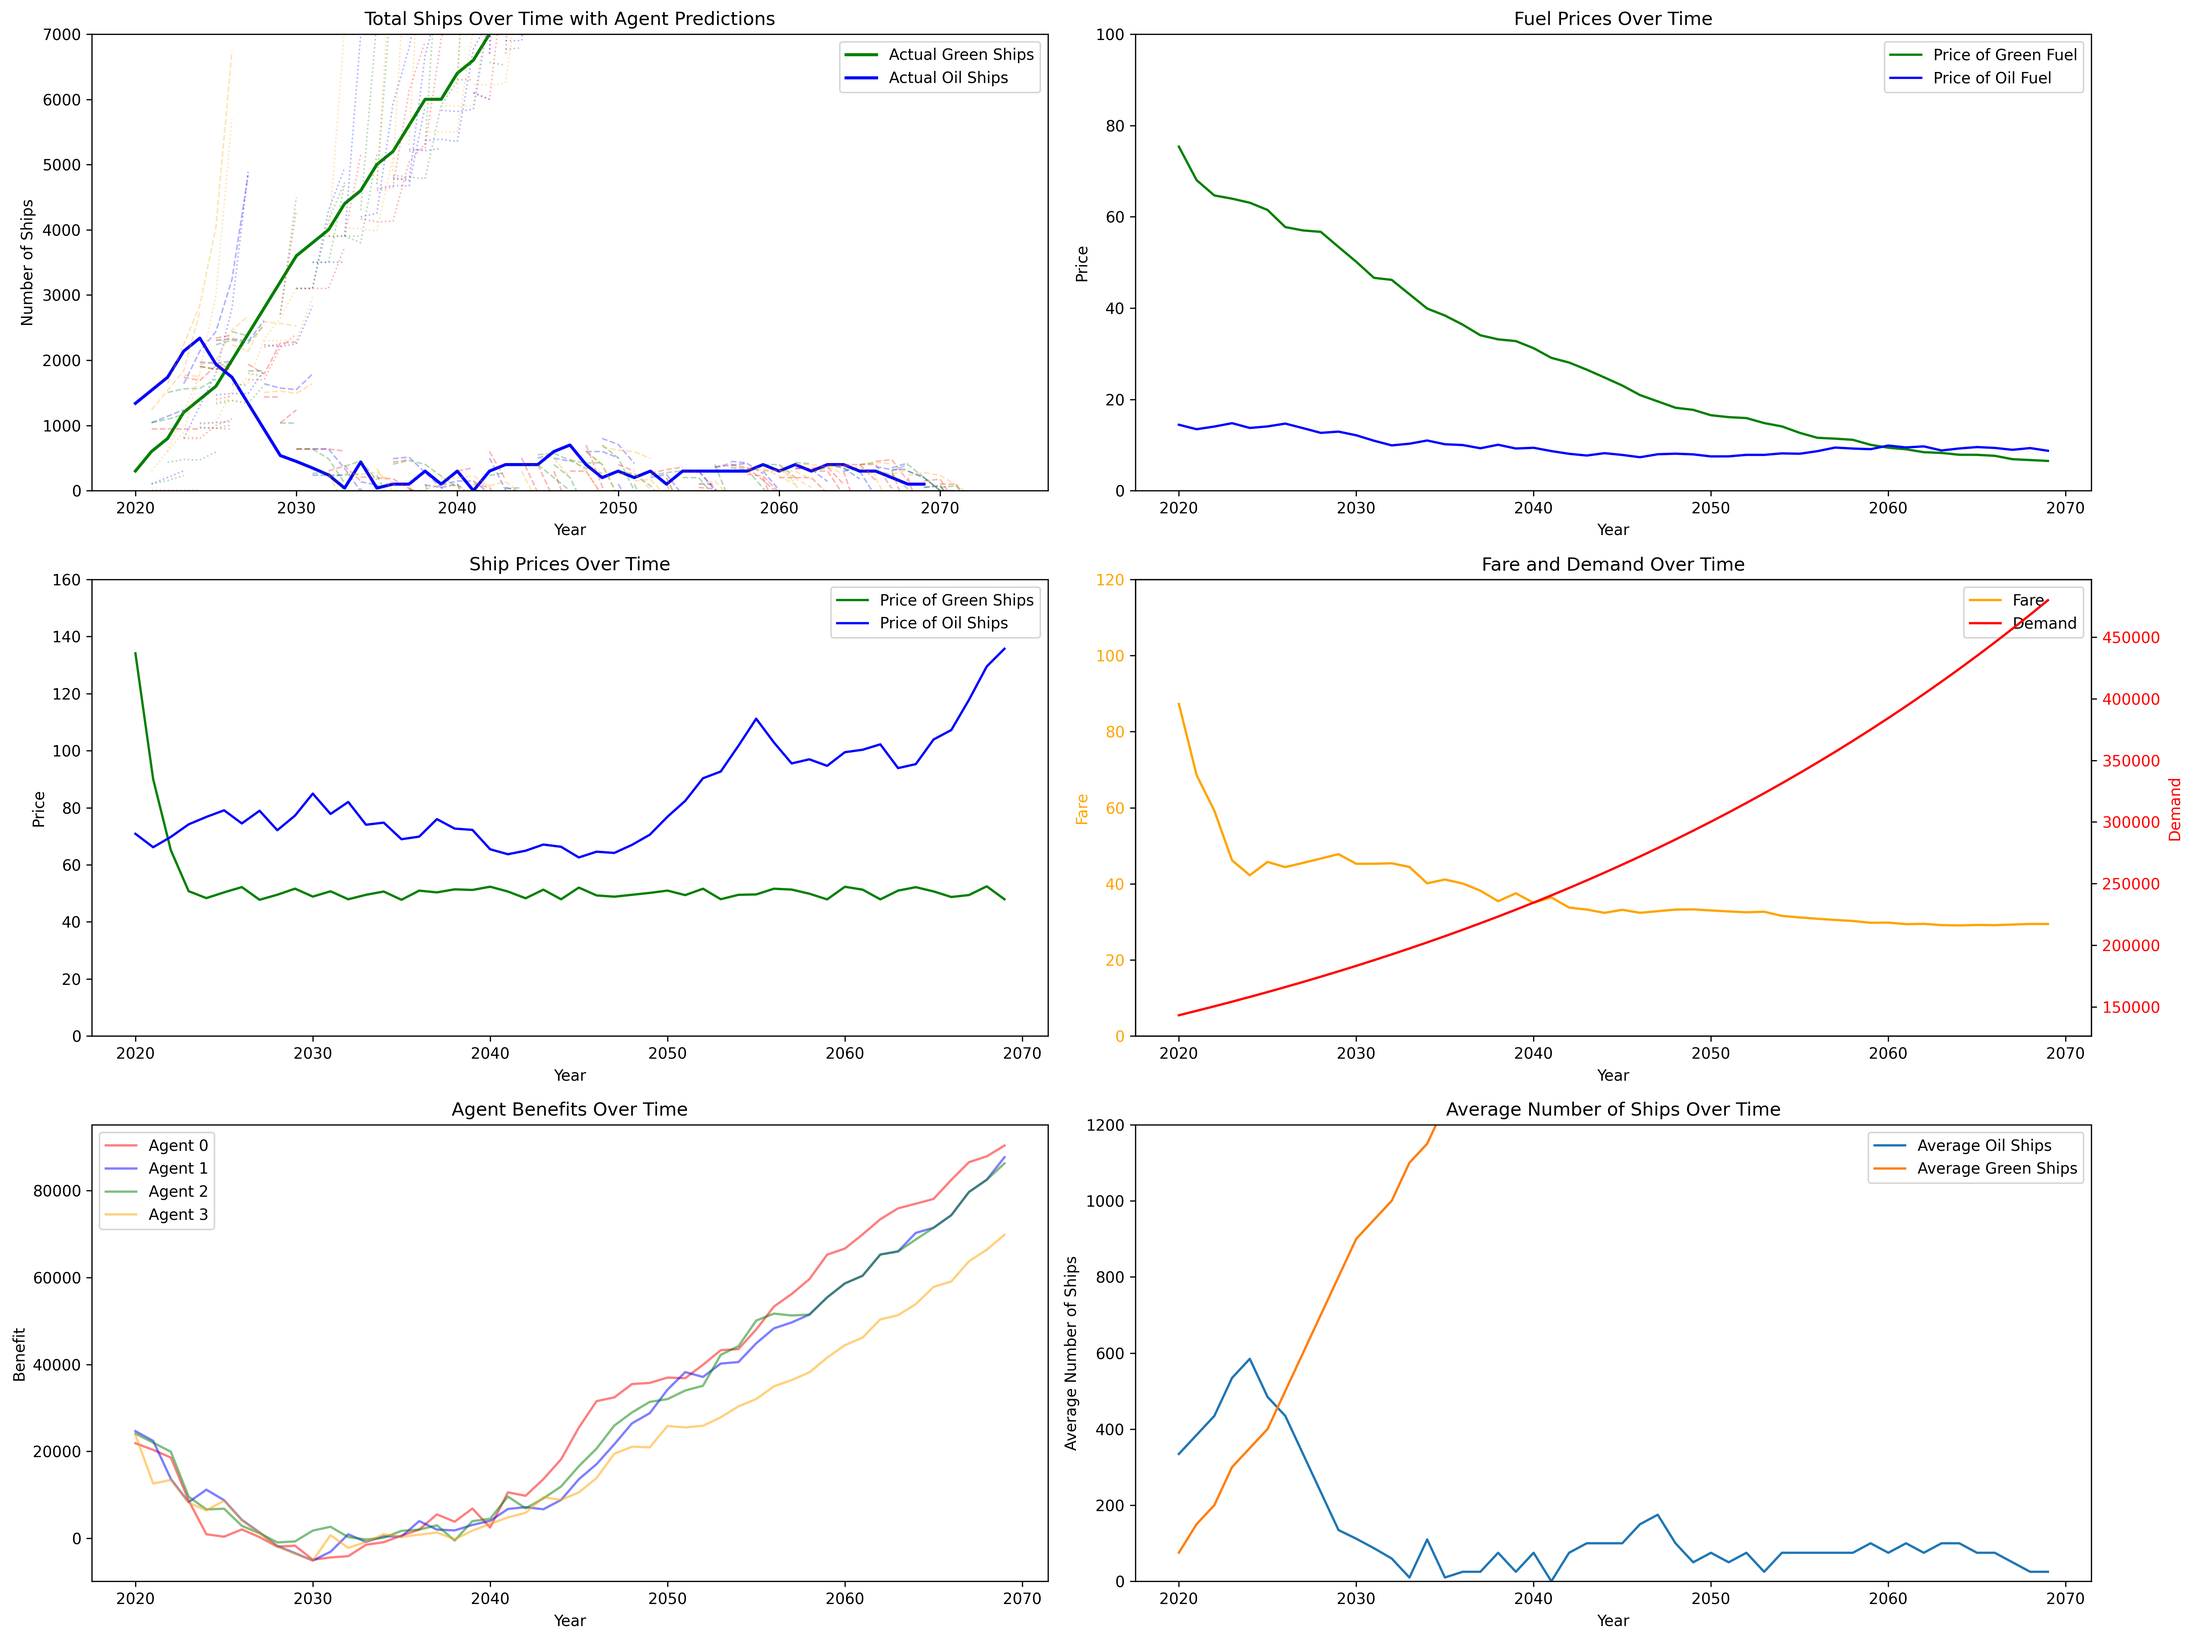
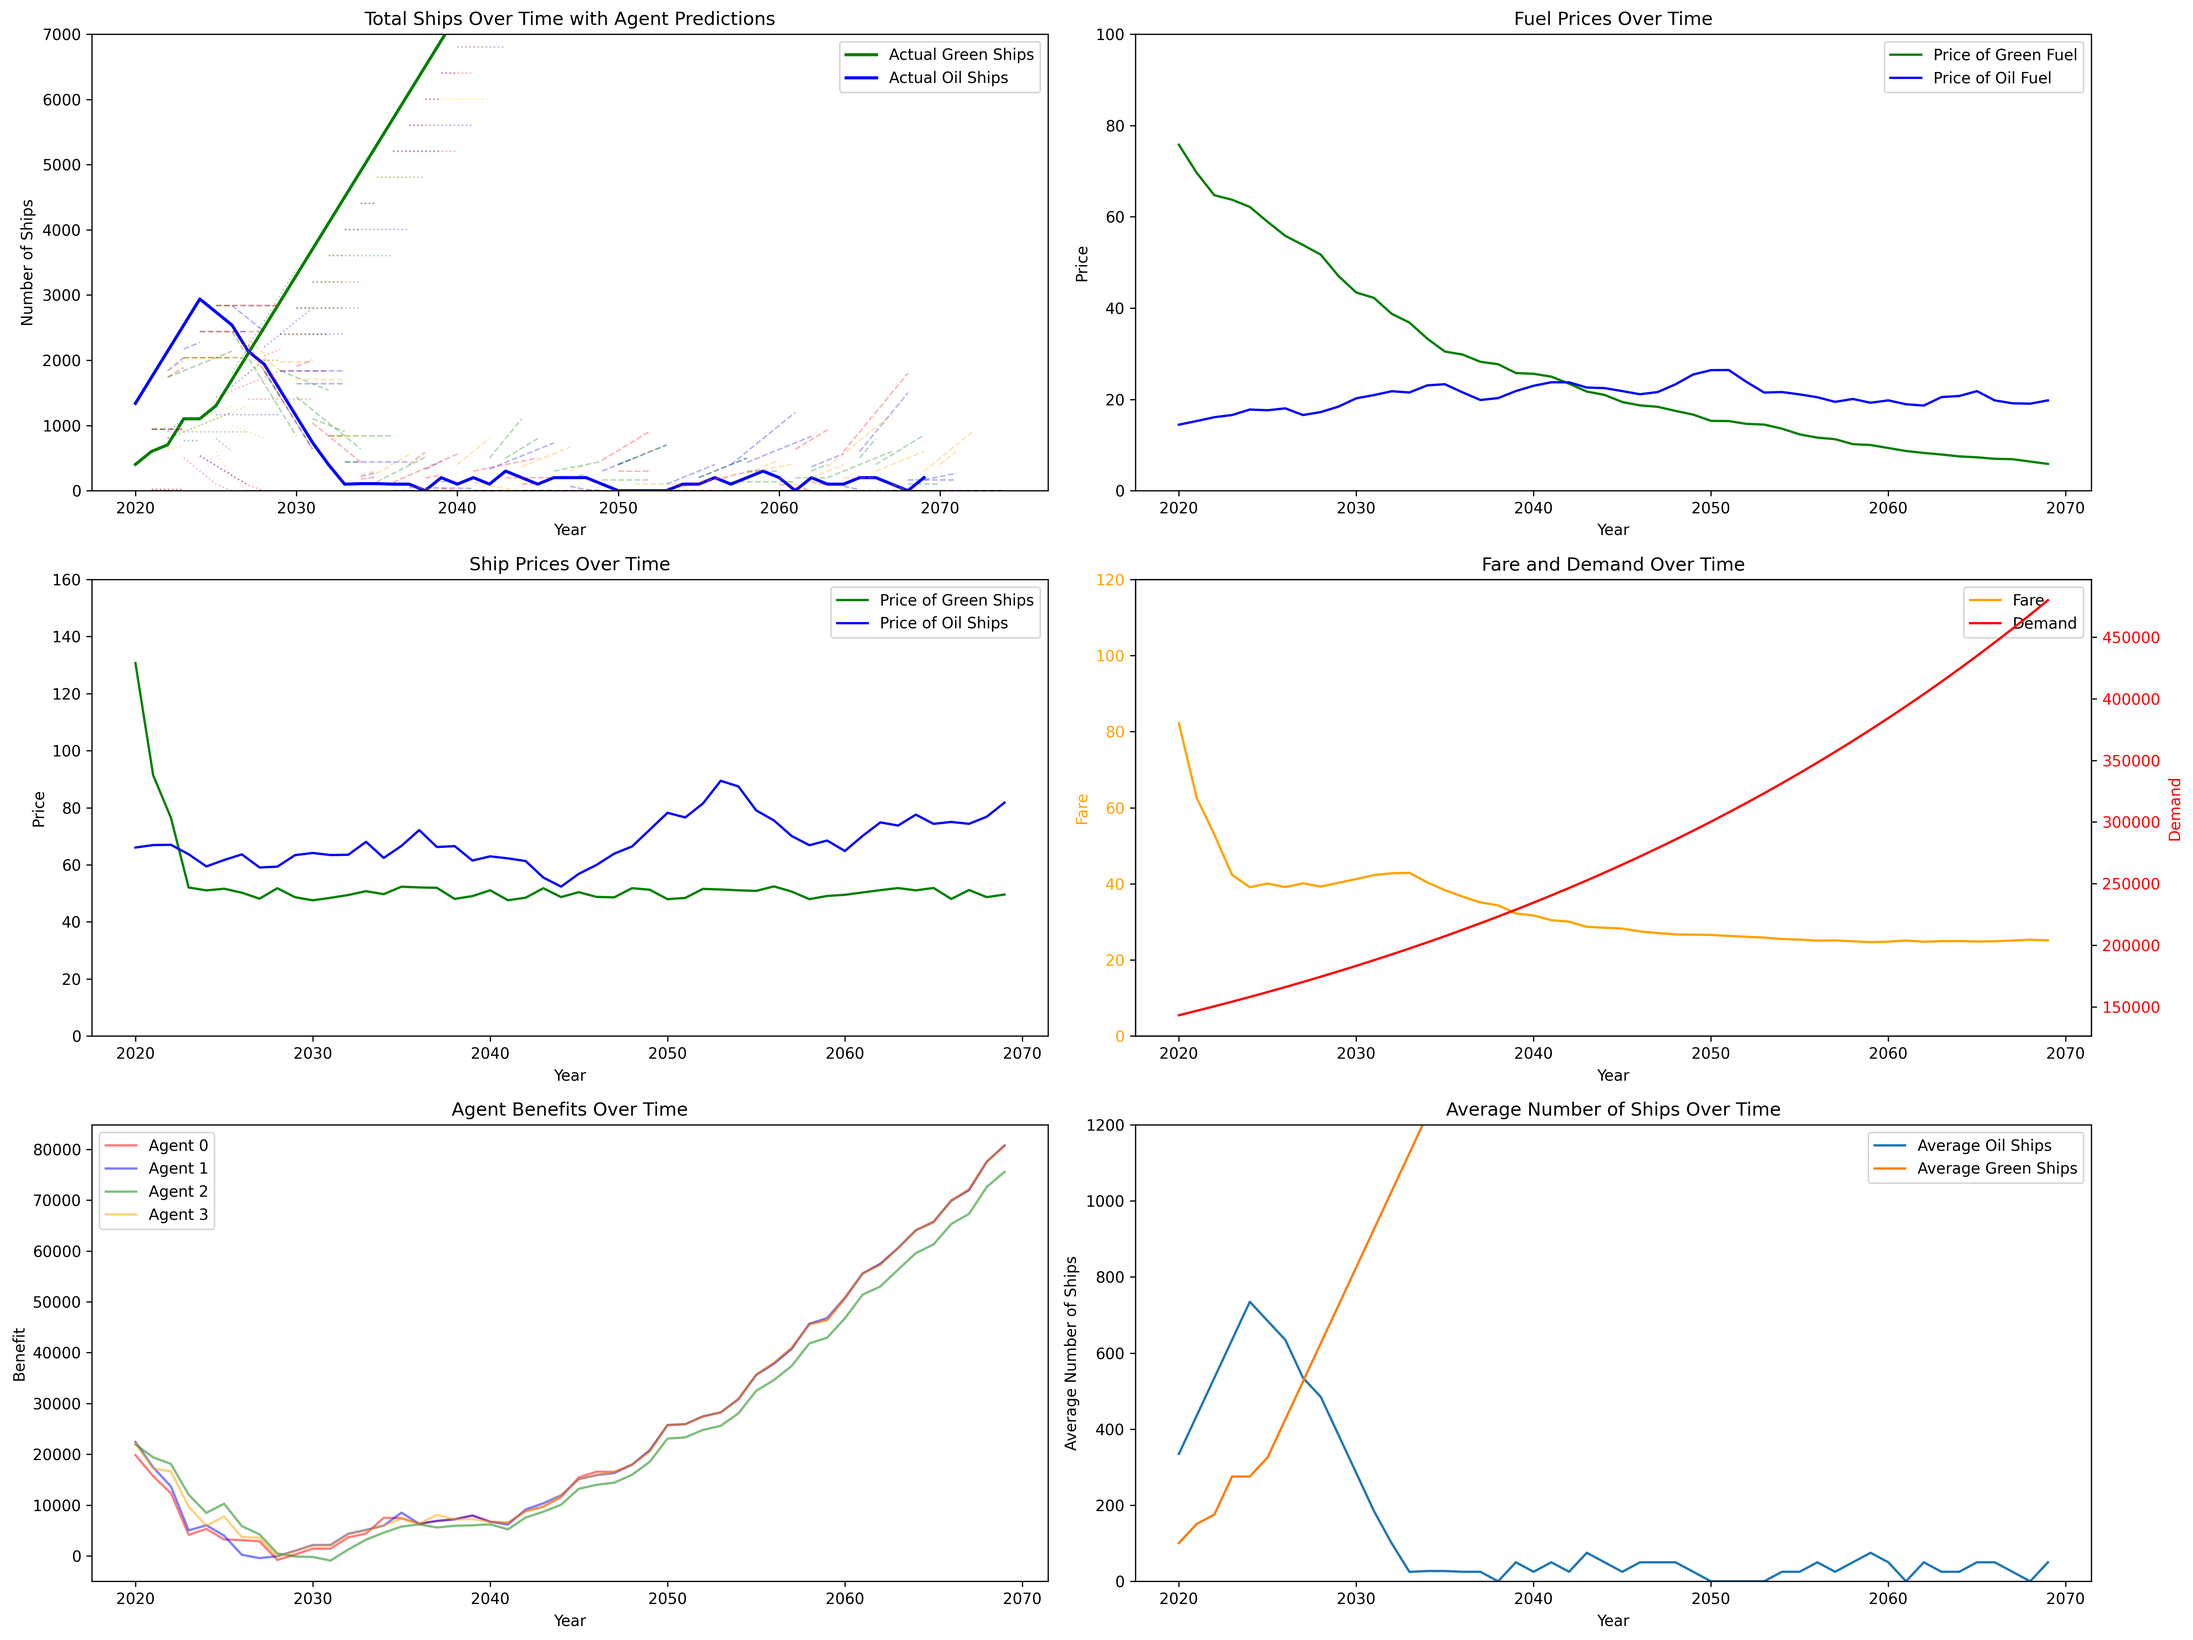
線形予測

diff --git a/linear_pred.py b/linear_pred.py
@@ -1,0 +1,121 @@
+import random
+import matplotlib.pyplot as plt
+import numpy as np
+
+import base
+
+DISCOUNT_RATE = 0.05  # 割引率
+
+
+class CustomAgent(base.Agent):
+    def trade(self, env, other_agents):  # 売買
+        avg_green = sum(agent.n_green for agent in other_agents) / len(other_agents)
+        avg_oil = sum(agent.n_oil for agent in other_agents) / len(other_agents)
+        n_green_old = self.n_green
+        n_oil_old = self.n_oil
+
+        past_years = random.randint(2, 3)
+        future_years = random.randint(1, 5)
+
+        predict_n_oils, predict_n_greens = self.predict_n_future(env, other_agents, past_years, future_years) # 未来の船の数を予測(他のエージェントの合計)
+        self.history_predict_n_oil.append(predict_n_oils)
+        self.history_predict_n_green.append(predict_n_greens)
+        # print(f"Agent {self.ind}: Predicted {predict_n_oils} oil ships and {predict_n_greens} green ships in {future_years} years.")
+
+        max_benefit = -1e9 # 負の無限大（最大値を求めるため）
+        best_diff_oil = 0
+        best_diff_green = 0
+
+        test_case = 100 # 重油船、グリーン船の購入数の変動の幅
+        for diff_oil in range(-test_case,test_case+1, 2):
+            for diff_green in range(-test_case,test_case+1, 2):
+                n_oil = max(0, self.n_oil + diff_oil)
+                n_green = max(0, self.n_green + diff_green)
+                # predict_n_oils += n_oil
+                # predict_n_greens += n_green
+                predict_penalties, predict_rebates = self.predict_feebate_future(env, predict_n_oils, predict_n_greens, n_oil, n_green, future_years)
+
+                predict_costs = 0
+                predict_sales = 0
+                predict_benefits = 0
+                for i in range(future_years):
+                    predict_costs = (n_oil + diff_oil*i) * (1/20*env.pv_oil + env.p_oil) + (n_green + diff_green*i) * (1/20*env.pv_green + env.p_green)
+                    predict_fare = env.fare * 1.025 ** (i + 1) * env.total_n / (predict_n_oils[i] + predict_n_greens[i]) # 運賃の予測（需要が年率2.5%増加）
+                    predict_sales = (n_oil + diff_oil*i + n_green + diff_green*i) * predict_fare
+                    predict_benefits += (predict_sales - predict_costs - predict_penalties[i] + predict_rebates[i]) * (1 - DISCOUNT_RATE) ** (i + 1) # 割引現在価値
+                if predict_benefits > max_benefit:
+                    max_benefit = predict_benefits
+                    best_diff_oil = diff_oil
+                    best_diff_green = diff_green
+
+        self.n_green += best_diff_green
+        self.n_oil += best_diff_oil
+
+        if best_diff_oil == test_case or best_diff_oil == -test_case or best_diff_green == test_case or best_diff_green == -test_case:
+            # 購入数が最大値または最小値に達した場合、警告を表示
+            # print(f"Agent {self.ind}: The number of ships has reached the maximum or minimum value. Bought {best_diff_oil} oil ships and {best_diff_green} green ships.")
+            pass
+
+        self.n_oil = max(0, self.n_oil)
+        self.n_green = max(0, self.n_green)
+        self.history_oil.append(self.n_oil - n_oil_old)
+        self.history_green.append(self.n_green - n_green_old)
+
+
+
+    def predict_n_future(self, env, agents, past_years, future_years):
+        """
+        過去past_years年間の特徴量を用いて、未来future_years年後の船の数を予測する
+        """
+        # 自分以外のAgentが買う重油船の数を予測
+        past_sum_n_oils = np.zeros(past_years)
+        past_sum_n_greens = np.zeros(past_years)
+        years = np.zeros(past_years)
+        lack_of_history = 0
+        for i in range(past_years):
+            years[i] = i
+            for agent in agents:
+                if len(agent.history_oil) == 0 or agent.history_oil == 1:
+                    lack_of_history = 1
+                    continue
+                elif agent.ind == self.ind:
+                    continue
+                elif len(agent.history_oil) < past_years-i:
+                    continue
+                # 過去の重油船とグリーン船の合計を集計
+                past_sum_n_oils[i] += agent.history_oil[-(past_years-i)]
+                past_sum_n_greens[i] += agent.history_green[-(past_years-i)]
+
+        # 線形回帰
+        a_oil, b_oil = np.polyfit(years,past_sum_n_oils,1)
+        a_green, b_green = np.polyfit(years, past_sum_n_greens,1)
+
+        pred_n_oil = np.zeros(future_years)
+        pred_n_green = np.zeros(future_years)
+
+        for j in range(future_years):
+            if lack_of_history:
+                if j == 0:
+                    pred_n_oil[j] = random.randint(0,5)*len(agents)+env.total_n_oil
+                    pred_n_green[j] = random.randint(0,5)*len(agents)+env.total_n_green
+                else:
+                    pred_n_oil[j] = pred_n_oil[0]
+                    pred_n_green[j] = pred_n_green[0]
+            else:
+                pred_n_oil[j] = a_oil*(j+past_years)+b_oil+env.total_n_oil
+                pred_n_green[j] = a_green*(j+past_years)+b_green+env.total_n_green
+                if pred_n_oil[j] < 0:
+                    pred_n_oil[j] = 0
+                if pred_n_green[j] < 0:
+                    pred_n_green[j] = 0
+
+        return pred_n_oil, pred_n_green
+
+class CustomEnv(base.Env):
+    pass
+
+if __name__ == '__main__':
+    sim = base.Simulation(CustomAgent, CustomEnv)
+    sim.run()
+    sim.plot()
+    sim.validate()
